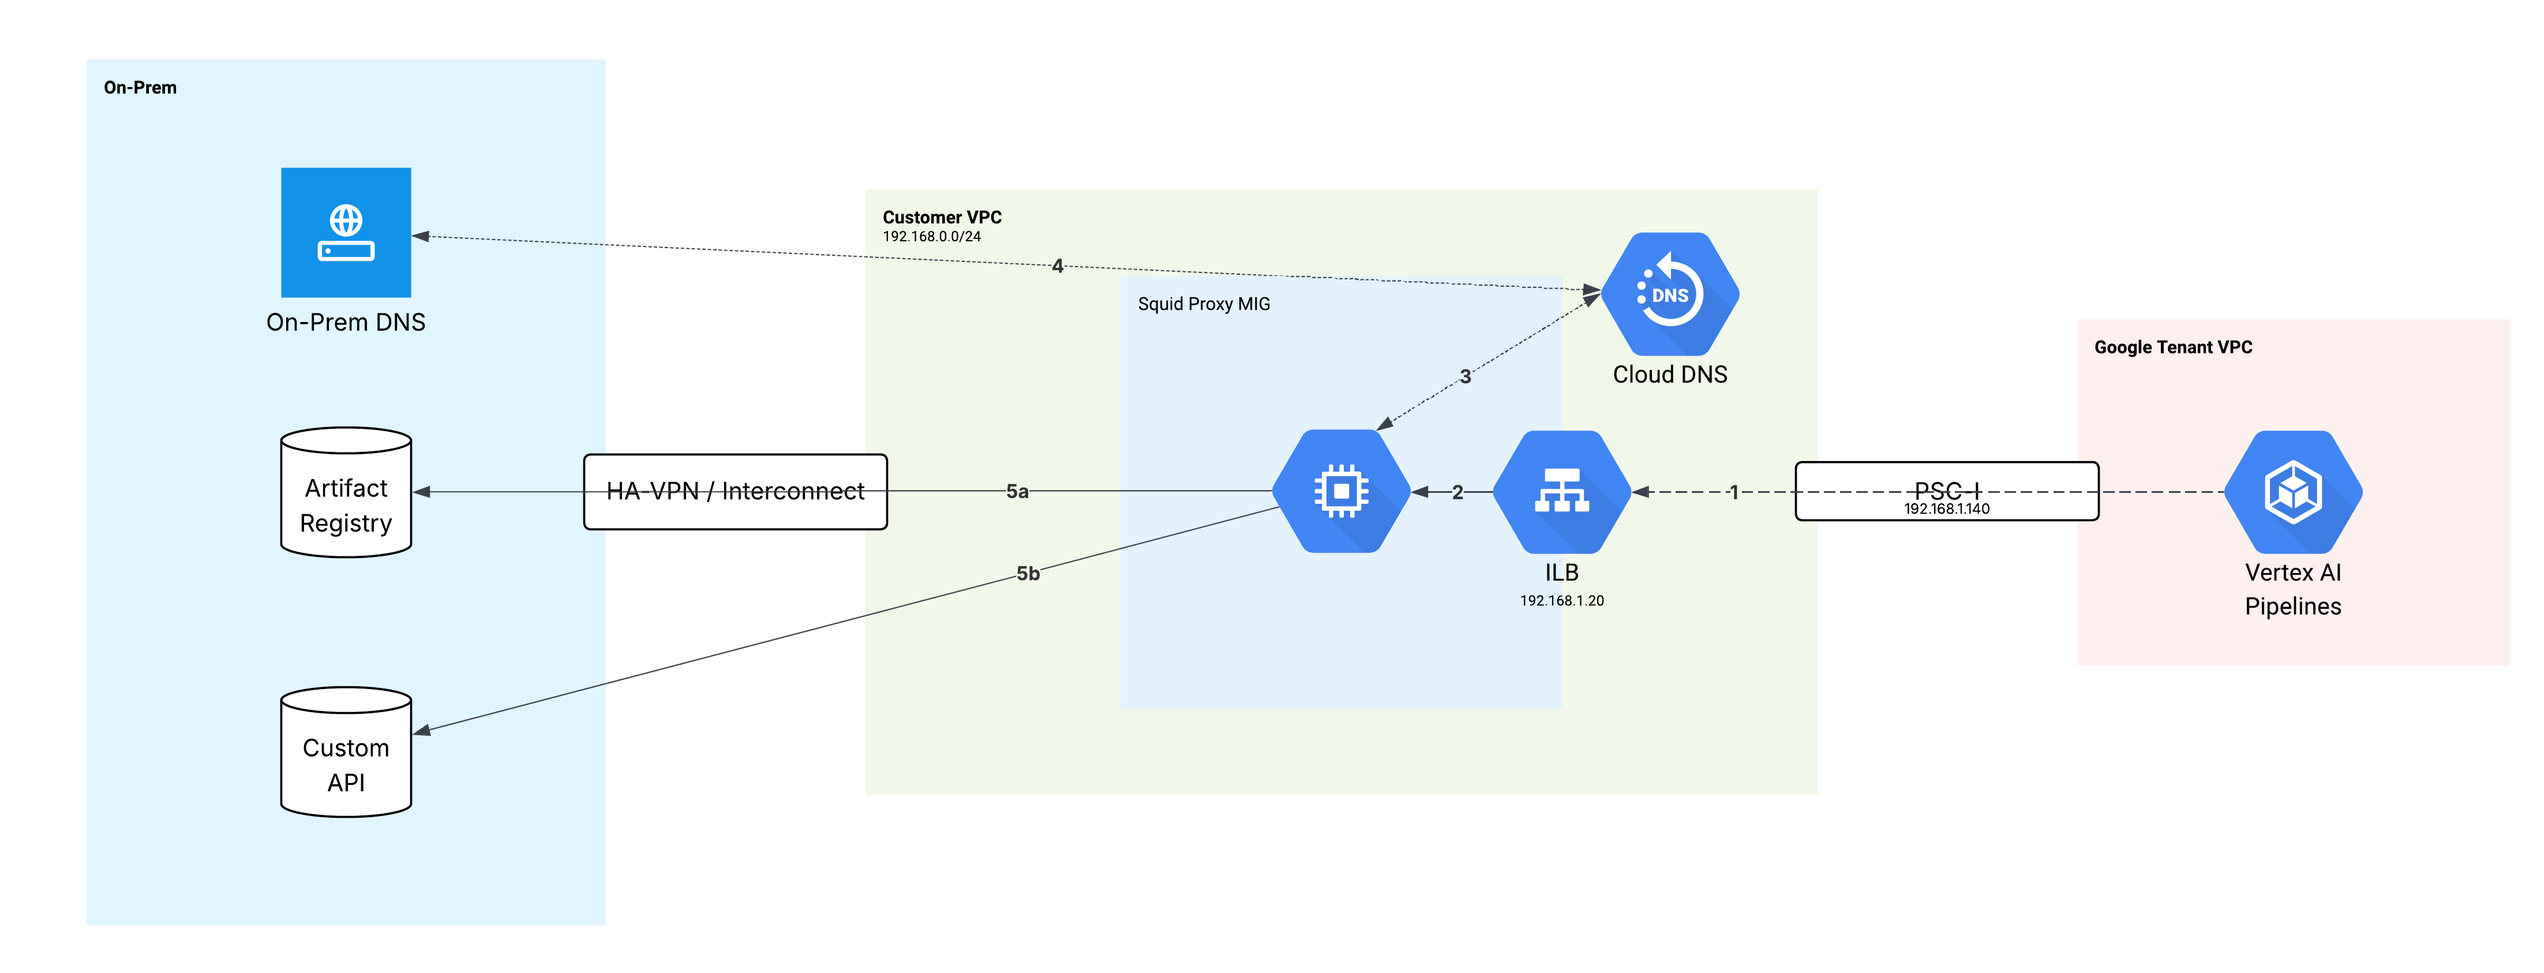
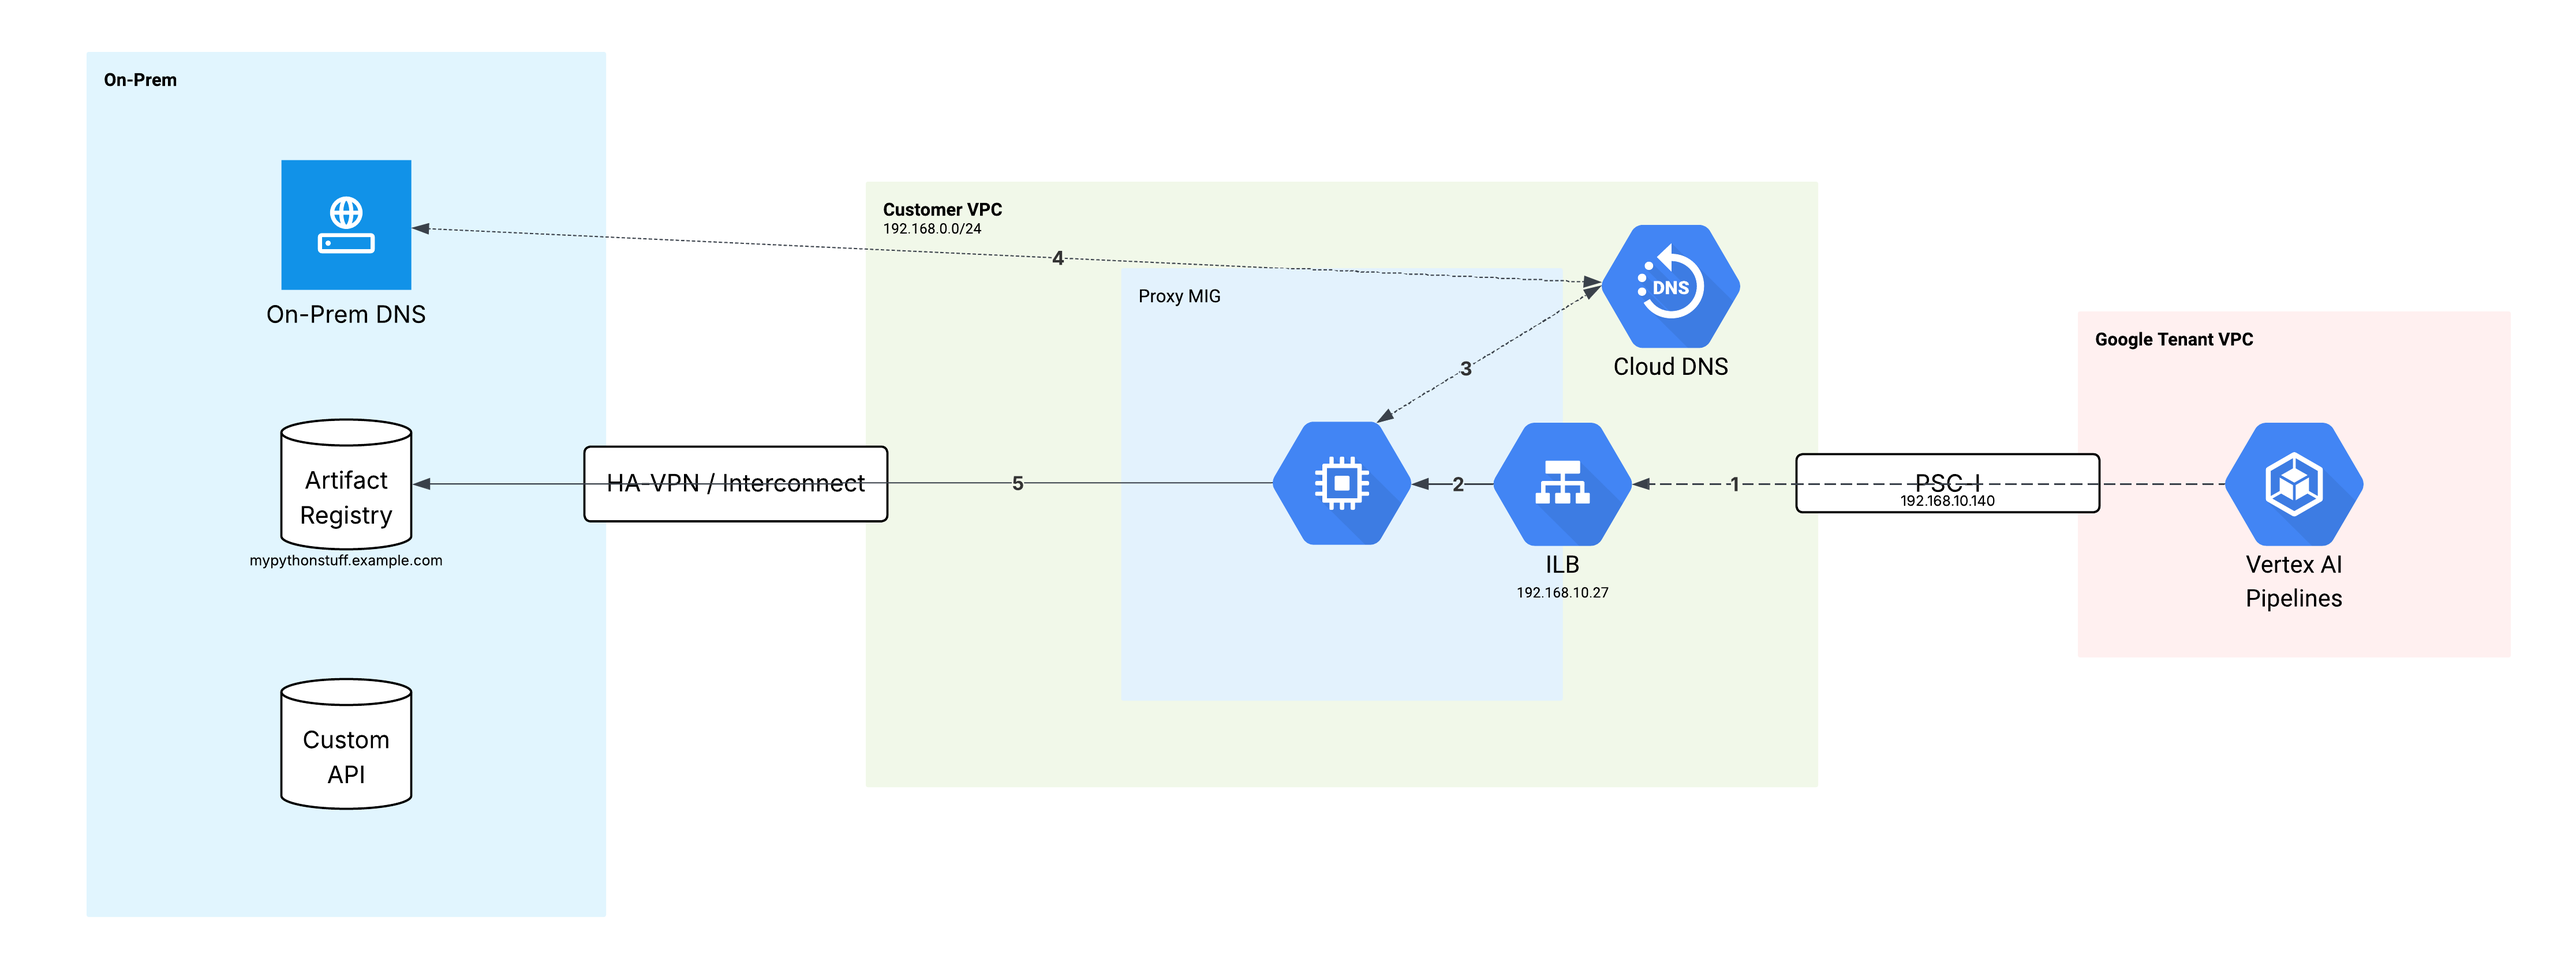
consistent IPs and example service name

diff --git a/MLOps/Pipelines/Private_PyPI/4_Squid_Proxy_PSC_I.md b/MLOps/Pipelines/Private_PyPI/4_Squid_Proxy_PSC_I.md
@@ -71,7 +71,7 @@ Here is what we will be deploying and how the traffic flow will work.
 
 1. A [Managed Instance Group](https://cloud.google.com/compute/docs/instance-groups) of Compute Engine VMs.  MIGs perform automatic deployment, updates and repair, minimizing our operational overhead and providing tight integration to GCP Load Balancing.  We will run 3 instances to ensure high availability.
 2. A Load Balancer, configured to send traffic to our proxy VMs.
-3. Our vertex pipelines will be configured to run with an environment variable `https_proxy=[load balancer ip]:3128`.  This instructs HTTP clients running in our pipeline to use the load balancer as a  proxy for all HTTPS requests.
+3. Our vertex pipelines will be configured to run with an environment variable `https_proxy=192.168.10.27:3128`.  This instructs HTTP clients running in our pipeline to use the load balancer as a  proxy for all HTTPS requests.
 
 
 When a new HTTP request is sent, it will take the path depicted in the diagram.
@@ -80,9 +80,9 @@ When a new HTTP request is sent, it will take the path depicted in the diagram.
 2. The request is sent to the proxy and contains a request to connect to one of the on-prem services by name (ex: mypythonstuff.example.com).
 3. The _proxy_ VM - not the HTTP client in Vertex - makes a DNS request to resolve `mypythonstuff.example.com`.
 4. Cloud DNS forwards the query to on-prem and recieves and answer, passing the information back to the proxy VM.
-5. The _proxy_ VM completes the HTTP connection to the resolved IP and either passes the original request along or (in the case of HTTPS) links the incoming client coonnection to the upstream service over an HTTP CONNECT tunnel.
+5. The _proxy_ VM completes the HTTP connection to the resolved IP and either passes the original request along or (in the case of HTTPS) links the incoming client coonnection to the upstream service over an [HTTP CONNECT tunnel](https://en.wikipedia.org/wiki/HTTP_tunnel).
 
-The response from the upstream service is then returned to the client.
+The response from the upstream service is then returned to the client.  With the properly configured proxy variables, Vertex Pipelines can now resolve and reach on-prem services by DNS entry.
 
 It's worth noting that this solution uses an HTTP proxy but could also use a [SOCKS](https://en.wikipedia.org/wiki/SOCKS) based proxy if non-HTTP protocols were required and the clients on the Vertex side supported SOCKS proxies.
 
